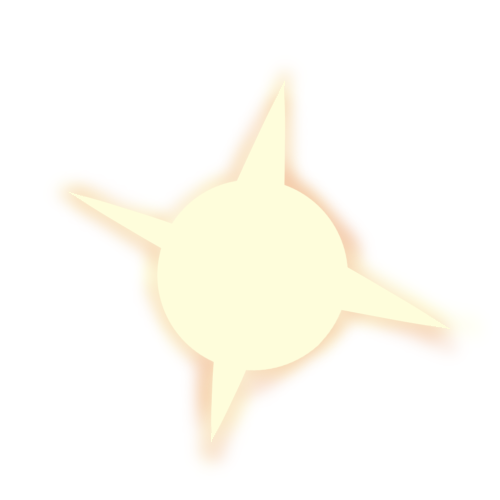
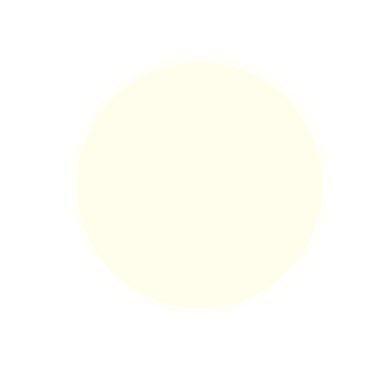
playerの正面に空気の玉を描画

diff --git a/Application/Scene/GameScene.cpp b/Application/Scene/GameScene.cpp
@@ -42,16 +42,20 @@ void GameScene::Update()
 {
 
 	popFTimer_++;
-	if (popFTimer_ > 20) {
+	if (popFTimer_ > 10) {
 		ffpos_ = player_->GetWorldPos();
 
-		ffpos_.x += MyRandom::GetFloatRandom(-200, 200);
-		ffpos_.y += MyRandom::GetFloatRandom(-20, 20);
-		ffpos_.z += MyRandom::GetFloatRandom(50, 200);
+		ffpos_.x += -player_->GetFrontVec().x * MyRandom::GetFloatRandom(-500, 500);
+		ffpos_.y += -player_->GetFrontVec().y * MyRandom::GetFloatRandom(-100, 500);
+		ffpos_.z += -player_->GetFrontVec().z * MyRandom::GetFloatRandom( 40, 200);
 
+
+		ffv_.x = MyRandom::GetFloatRandom(-0.1f, 0.1f);
+		ffv_.y = MyRandom::GetFloatRandom(-0.1f, 0.1f);
+		ffv_.z = MyRandom::GetFloatRandom(-0.1f, 0.1f);
 
 		std::unique_ptr<FieldEffect> newFF = std::make_unique<FieldEffect>();
-		newFF->Initialize(ffpos_,player_->GetRot(), ffv_, poriModel_.get());
+		newFF->Initialize(ffpos_,player_->GetRot(), ffv_, poriFModel_.get());
 		fEffects_.push_back(std::move(newFF));
 		popFTimer_ = 0;
 	}
@@ -529,7 +533,7 @@ void GameScene::ReLoad(const std::string filename)
 
 			newEnemy[enemySize_]->SetShadow(shadowModel_.get());
 			newEnemy[enemySize_]->Initialize(newObject[objSize_].get(), newObject[objSize_]->GetPosition(), player_.get());
-			newEnemy[enemySize_]->SetBulletModel(cubeModel_.get());
+			newEnemy[enemySize_]->SetBulletModel(bossBulletModel_.get());
 			
 
 

diff --git a/FieldEffect.cpp b/FieldEffect.cpp
@@ -1,4 +1,5 @@
 #include "FieldEffect.h"
+#include "Easing.h"
 
 void FieldEffect::Initialize(Vector3 pos, Vector3 rot,Vector3& velocity, Model* model)
 {
@@ -12,16 +13,35 @@ void FieldEffect::Initialize(Vector3 pos, Vector3 rot,Vector3& velocity, Model* 
 	thisObject_->Initialize();
 	thisObject_->SetPosition(pos_);
 	thisObject_->SetRotation(rot_);
+
 }
 
 void FieldEffect::Update()
 {
-	scale_ -= 0.005f;
-	thisObject_->SetScale({ scale_ ,scale_ ,scale_ });
+	ariveFrame_++;
 
+	if (isDown_) {
+		timer_--;
+	}
+	else {
+		timer_++;
+	}
+
+	if (timer_ == 90) {
+		isDown_ = true;
+	}
+	else if (timer_ == 0) {
+		isDown_ = false;
+	}
+
+	pos_ += velocity_;
+
+	scaleEs_ = scaleEs_.lerp({ 0,0,0 }, { maxScale_,maxScale_,maxScale_ }, Easing::EaseOutBack(timer_, 90));
+	thisObject_->SetScale(scaleEs_);
+	thisObject_->SetPosition(pos_);
 	thisObject_->Update();
 
-	if (scale_ < 0) {
+	if (ariveFrame_ > 180) {
 		isDead_ = true;
 	}
 }

diff --git a/Application/AssetManager/Model3DManager.cpp b/Application/AssetManager/Model3DManager.cpp
@@ -60,6 +60,9 @@ void Model3DManager::LoadGame3DModel()
 	poriModel_ = std::make_unique<Model>();
 	poriModel_->LoadFromObj("pori");
 
+	poriFModel_ = std::make_unique<Model>();
+	poriFModel_->LoadFromObj("poriF");
+
 	shadowModel_ = std::make_unique<Model>();
 	shadowModel_->LoadFromObj("cirshadow");
 

diff --git a/FieldEffect.h b/FieldEffect.h
@@ -12,9 +12,16 @@ private:
 	Vector3 velocity_;
 	Vector3 pos_;
 	Vector3 rot_;
-	float scale_ = 1;
+	float scale_ = 1.5f;
+	bool isDown_ = false;
+
+	Vector3 scaleEs_ = { 0,0,0 };
 
 	bool isDead_ = false;
+
+	float ariveFrame_ = 0;
+	float timer_;
+	float maxScale_ = 0.5f;
 
 public:
 	

diff --git a/Application/Player/Player.h b/Application/Player/Player.h
@@ -223,6 +223,7 @@ public:	//getter,setter
 	Vector3 GetWorldPos();
 	Vector3 GetScreenRTPos();
 	Vector3 GetRot();
+	Vector3 GetFrontVec();
 
 	const std::list<std::unique_ptr<PlayerBullet>>& GetBullets() { return bullets_; }
 

diff --git a/Application/AssetManager/Model3DManager.h b/Application/AssetManager/Model3DManager.h
@@ -36,6 +36,7 @@ protected:
 	std::unique_ptr<Model> LeftDoorModel_;
 
 	std::unique_ptr<Model> poriModel_;
+	std::unique_ptr<Model> poriFModel_;
 	std::unique_ptr<Model> shadowModel_;
 
 	std::unique_ptr<Model> konnpeModel_;

diff --git a/Application/Player/Player.cpp b/Application/Player/Player.cpp
@@ -507,6 +507,11 @@ Vector3 Player::GetRot()
 	return playerObject_->GetRotation();
 }
 
+Vector3 Player::GetFrontVec()
+{
+	return frontVec;
+}
+
 void Player::SetPos(Vector3 pos)
 {
 	playerObject_->SetPosition(pos);
